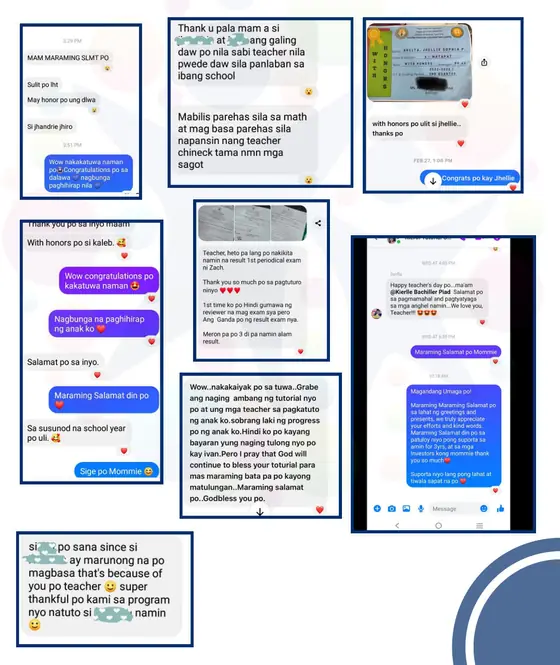
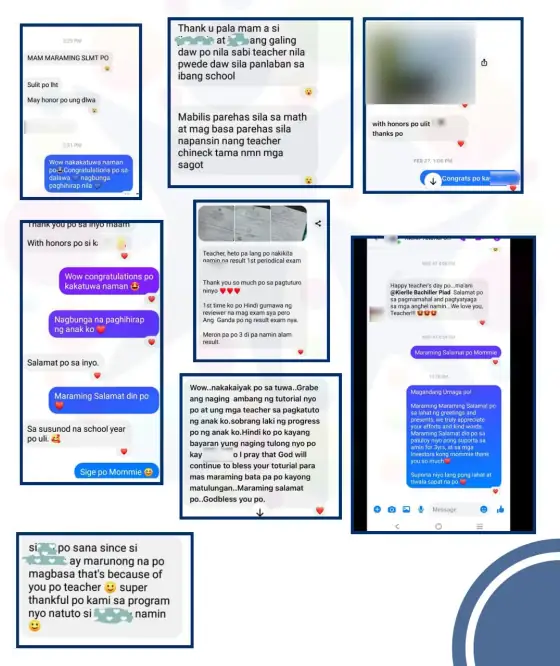
feat: v0.1.6 privacy redactions, compliant partner wording, teacher-1 defaults
- Redact children's names, faces, commenter names and the TIN in the
  testimonial and BIR permit photos (thumbnails regenerated)
- Reword the four Partner options without investment or profit-sharing
  offers; add a disclaimer and a regression test
- New bookable programs and new locations are assigned to teacher-1
  automatically; admin refreshes its teacher list after those saves

diff --git a/index.html b/index.html
@@ -23,8 +23,8 @@
   <link href="assets/kiean-icon.png" rel="icon" type="image/png"/>
   <script type="application/ld+json">{"@context":"https://schema.org","@type":["EducationalOrganization","LocalBusiness"],"@id":"https://kieantutorial.com/#organization","name":"KieAn Tutorial Center","alternateName":"KieAn","slogan":"We care to learn.","url":"https://kieantutorial.com/","logo":"https://kieantutorial.com/assets/kiean-logo.webp","image":"https://kieantutorial.com/assets/og-image.png","description":"Face-to-face and online tutorials, SPED tutorial, Toddler Playgroup, Nursery and Kiddie Care for learners from Nursery to Grade 6 in Cavite and Laguna.","foundingDate":"2020","founder":[{"@type":"Person","name":"Kierlle B. Piad"},{"@type":"Person","name":"Anthony S. Piad"}],"sameAs":["https://www.facebook.com/profile.php?id=61593257580081"],"areaServed":["Cavite","Laguna","Metro Manila","Batangas"],"location":[{"@type":"Place","name":"KieAn Tutorial Center – San Pedro, Laguna","address":{"@type":"PostalAddress","streetAddress":"Block 22 Lot 4, Unit E, 2nd Floor, Chrysanthemum Village, San Pedro, Laguna","addressCountry":"PH"}},{"@type":"Place","name":"KieAn Tutorial Center – Pila, Laguna","address":{"@type":"PostalAddress","streetAddress":"9007 A, Pedro Napil, Mabini Street, Pila, Laguna","addressCountry":"PH"}},{"@type":"Place","name":"KieAn Tutorial Center – Natania Homes","address":{"@type":"PostalAddress","streetAddress":"Phase 1A, Block 9 Lot 5, Natania Homes, Barangay Pasong Kawayan II, General Trias, Cavite","addressCountry":"PH"}},{"@type":"Place","name":"KieAn Tutorial Center – South Square","address":{"@type":"PostalAddress","streetAddress":"0052, 2nd Floor, Barangay Pasong Kawayan II, General Trias, Cavite","addressCountry":"PH"}},{"@type":"Place","name":"KieAn Tutorial Center – San Francisco","address":{"@type":"PostalAddress","streetAddress":"Phase 1, Block 27 Lot 36, Tierra Nevada, Barangay San Francisco, General Trias, Cavite","addressCountry":"PH"}},{"@type":"Place","name":"KieAn Tutorial Center – Maliksi Heroes-Town","address":{"@type":"PostalAddress","streetAddress":"2F, Block 21 Lots 30–32, Unit 2, Phase 1, Pamayanang Maliksi, Barangay Pasong Kawayan II, General Trias, Cavite","addressCountry":"PH"}},{"@type":"Place","name":"KieAn Tutorial Center – Ciudad Nuevo, Naic","address":{"@type":"PostalAddress","streetAddress":"Phase 2, Block 2 Lot 3, Ciudad Nuevo, Barangay Timalan Balsahan, Naic, Cavite","addressCountry":"PH"}}],"legalName":"KIEAN TUTORIAL CENTER","email":"kieanadmin@gmail.com","address":{"@type":"PostalAddress","streetAddress":"Phase 1A, Block 9 Lot 5, Natania Homes, Barangay Pasong Kawayan II","addressLocality":"General Trias","addressRegion":"Cavite","postalCode":"4107","addressCountry":"PH"},"identifier":{"@type":"PropertyValue","propertyID":"DTI Business Name No.","value":"2828786"}}</script>
   <script type="application/ld+json">{"@context":"https://schema.org","@type":"WebSite","@id":"https://kieantutorial.com/#website","name":"KieAn Tutorial Center","url":"https://kieantutorial.com/","inLanguage":"en-PH","publisher":{"@id":"https://kieantutorial.com/#organization"},"copyrightHolder":{"@id":"https://kieantutorial.com/#organization"},"copyrightYear":2026}</script>
-  <link href="style.css?v=20261112-10" rel="stylesheet"/>
-  <link href="booking.css?v=20261112-10" rel="stylesheet"/>
+  <link href="style.css?v=20261112-12" rel="stylesheet"/>
+  <link href="booking.css?v=20261112-12" rel="stylesheet"/>
  </head>
  <body>
   <header class="site-header">
@@ -1126,80 +1126,37 @@
    <section class="section investment" id="investment">
     <div class="container">
      <div class="section-heading investment-heading">
-      <div class="section-kicker">
-       <span>
-        09
-       </span>
-       PARTNER WITH KIEAN
-      </div>
-      <h2>
-       Invest with purpose.
-       <span>
-        Grow with confidence.
-       </span>
-      </h2>
-      <p>
-       Be part of a growing mission that shapes minds and builds futures.
-      </p>
+      <div class="section-kicker"><span>09</span> PARTNER WITH KIEAN</div>
+      <h2>Bring KieAn closer <span>to your community.</span></h2>
+      <p>Franchise and partnership inquiries are welcome.</p>
      </div>
      <div class="investment-grid">
       <article class="investment-card">
-       <div class="investment-number">
-        OPTION 01
-       </div>
-       <h3>
-        Financial Investment
-       </h3>
-       <p>
-        Contact KieAn for the current investment terms.
-       </p>
-       <a class="program-link" href="https://www.facebook.com/profile.php?id=61593257580081" target="_blank" rel="noopener noreferrer">
-        Request details →
-       </a>
+       <div class="investment-number">OPTION 01</div>
+       <h3>Business Partnership</h3>
+       <p>Work with KieAn to open or grow a learning center in your area. Each partnership is discussed one-on-one with the KieAn team.</p>
+       <a class="program-link" href="https://www.facebook.com/profile.php?id=61593257580081" target="_blank" rel="noopener noreferrer">Ask about partnerships →</a>
       </article>
       <article class="investment-card">
-       <div class="investment-number">
-        OPTION 02
-       </div>
-       <h3>
-        Net Profit Sharing
-       </h3>
-       <p>
-        Discuss the current profit-sharing opportunities with the KieAn team.
-       </p>
-       <a class="program-link" href="https://www.facebook.com/profile.php?id=61593257580081" target="_blank" rel="noopener noreferrer">
-        Request details →
-       </a>
+       <div class="investment-number">OPTION 02</div>
+       <h3>Branch Operating Partnership</h3>
+       <p>Run a KieAn branch with our programs, teacher training and support. Roles and responsibilities are agreed directly with KieAn.</p>
+       <a class="program-link" href="https://www.facebook.com/profile.php?id=61593257580081" target="_blank" rel="noopener noreferrer">Ask about branch operations →</a>
       </article>
       <article class="investment-card">
-       <div class="investment-number">
-        OPTION 03
-       </div>
-       <h3>
-        Kiddie Care Co-Ownership
-       </h3>
-       <p>
-        Explore co-ownership opportunities for KieAn Kiddie Care.
-       </p>
-       <a class="program-link" href="https://www.facebook.com/profile.php?id=61593257580081" target="_blank" rel="noopener noreferrer">
-        Request details →
-       </a>
+       <div class="investment-number">OPTION 03</div>
+       <h3>Kiddie Care Partnership</h3>
+       <p>Have a suitable space? Bring KieAn Kiddie Care to your community with our care programs and support.</p>
+       <a class="program-link" href="https://www.facebook.com/profile.php?id=61593257580081" target="_blank" rel="noopener noreferrer">Ask about Kiddie Care →</a>
       </article>
       <article class="investment-card">
-       <div class="investment-number">
-        OPTION 04
-       </div>
-       <h3>
-        Franchising
-       </h3>
-       <p>
-        Turn your passion into a thriving business. Build your own learning center today.
-       </p>
-       <a class="program-link" href="https://www.facebook.com/profile.php?id=61593257580081" target="_blank" rel="noopener noreferrer">
-        Request details →
-       </a>
+       <div class="investment-number">OPTION 04</div>
+       <h3>Franchising</h3>
+       <p>Turn your passion into a thriving business. Open your own KieAn learning center with our programs and branch support.</p>
+       <a class="program-link" href="https://www.facebook.com/profile.php?id=61593257580081" target="_blank" rel="noopener noreferrer">Ask about franchising →</a>
       </article>
      </div>
+     <p class="investment-note">KieAn does not offer investment or profit-sharing products to the public. Any franchise or partnership is agreed privately and in writing.</p>
     </div>
    </section>
    <!-- FINAL CTA -->
@@ -1323,7 +1280,7 @@
     <button class="popup-next" type="button" aria-label="Next photo">›</button>
    </div>
   </dialog>
-  <script defer="True" src="site.js?v=20261112-10">
+  <script defer="True" src="site.js?v=20261112-12">
   </script>
  </body>
 </html>

diff --git a/faq.html b/faq.html
@@ -21,8 +21,8 @@
   <meta property="og:locale" content="en_PH">
   <meta name="twitter:card" content="summary_large_image">
   <link rel="icon" href="/assets/kiean-icon.png" type="image/png">
-  <link rel="stylesheet" href="/style.css?v=20261112-10">
-  <link rel="stylesheet" href="/booking.css?v=20261112-10">
+  <link rel="stylesheet" href="/style.css?v=20261112-12">
+  <link rel="stylesheet" href="/booking.css?v=20261112-12">
   <script type="application/ld+json">{"@context":"https://schema.org","@type":"BreadcrumbList","itemListElement":[{"@type":"ListItem","position":1,"name":"Home","item":"https://kieantutorial.com/"},{"@type":"ListItem","position":2,"name":"Frequently Asked Questions","item":"https://kieantutorial.com/faq"}]}</script>
   <script type="application/ld+json">{"@context":"https://schema.org","@type":"FAQPage","mainEntity":[{"@type":"Question","name":"How do I book sessions?","acceptedAnswer":{"@type":"Answer","text":"Open the booking page, tell us where you live, choose online or face to face, a program, a branch and a teacher, then pick your dates and one time that works for all of them. You will see your booking reference and receive an email with the full schedule."}},{"@type":"Question","name":"How many sessions do I need to book?","acceptedAnswer":{"@type":"Answer","text":"Online tutorials need at least 5 sessions. Most face-to-face tutorials and classes need at least 20 sessions. Nursery is a monthly enrollment of 20 class days, and Kiddie Care can be booked by the day, by the visit or as a monthly package."}},{"@type":"Question","name":"Which areas do you serve?","acceptedAnswer":{"@type":"Answer","text":"Our branches serve families in Cavite, Laguna, Metro Manila, Batangas and other Luzon areas. Choose your city or town on the booking page to see the branches and online teachers that serve your area."}},{"@type":"Question","name":"Can I choose my child’s teacher?","acceptedAnswer":{"@type":"Answer","text":"Yes. The booking page lists the teachers available for your program and area, with a short introduction for each."}},{"@type":"Question","name":"How do I pay?","acceptedAnswer":{"@type":"Answer","text":"Pay by GCash as shown on our <a href="/payment">How to Pay</a> page, then reply to your booking email with the receipt. You can also pay at the branch. The center may confirm fees for some programs."}},{"@type":"Question","name":"How long is each session?","acceptedAnswer":{"@type":"Answer","text":"Face-to-face tutorials and Toddler Playgroup run for 60 minutes and Nursery classes for 90 minutes. Online tutorials are 50-minute lessons with a 10-minute break before the next lesson."}},{"@type":"Question","name":"What grades do you teach?","acceptedAnswer":{"@type":"Answer","text":"Tutorials cover Nursery to Grade 6. Toddler Playgroup is for ages 2 to 3, Nursery 1 for age 3 and Nursery 2 for age 4 by October 31, and Kiddie Care is for children aged 1 and above."}},{"@type":"Question","name":"Do you offer SPED tutorial?","acceptedAnswer":{"@type":"Answer","text":"Yes. Activities depend on the developmental pediatrician’s assessment, so please present the latest diagnosis directly to the center before lessons begin."}},{"@type":"Question","name":"How do online lessons work?","acceptedAnswer":{"@type":"Answer","text":"Online lessons use Google Meet. After booking you receive a Google Calendar invitation with the Meet link. Please make sure your child has a working device, a stable internet connection and an adult nearby."}},{"@type":"Question","name":"What are the Kiddie Care hours?","acceptedAnswer":{"@type":"Answer","text":"Daytime care at our South Square branch runs from 7:00 AM to 7:00 PM. KieAn Kiddie Care offers day stays, night stays and walk-in care, for regular or special needs children, by the day or as a monthly package. See the rates on our homepage."}},{"@type":"Question","name":"What do I need to know before my child’s first day?","acceptedAnswer":{"@type":"Answer","text":"Meals and snacks are not included, an authorized pick-up list is required, and late pick-up is charged after the agreed schedule. Please complete our consent form."}},{"@type":"Question","name":"Can I reschedule or cancel a session?","acceptedAnswer":{"@type":"Answer","text":"Yes, with at least 24 hours’ notice. See our Refund and Cancellation Policy for details."}},{"@type":"Question","name":"How do you protect my family’s information?","acceptedAnswer":{"@type":"Answer","text":"We use your details only to schedule and run lessons and never sell them. Read our Privacy Policy."}},{"@type":"Question","name":"How can I contact KieAn?","acceptedAnswer":{"@type":"Answer","text":"Message us on Facebook. We reply to booking, program and partnership questions there."}}]}</script>
 </head>
@@ -64,6 +64,6 @@
     <p class="biz-line">KIEAN TUTORIAL CENTER (Kierlle Bachiller Piad, sole proprietor) · DTI Business Name No. 2828786 · Phase 1A, Block 9 Lot 5, Natania Homes, Pasong Kawayan II, General Trias, Cavite 4107 · <a href="mailto:kieanadmin@gmail.com">kieanadmin@gmail.com</a></p>
     <p>© 2026 KieAn Tutorial Center. All rights reserved. Photos, logos and other images on this website are © KieAn Tutorial Center and may not be reused without written permission.</p>
   </div></footer>
-  <script src="/legal.js?v=20261112-10" defer></script>
+  <script src="/legal.js?v=20261112-12" defer></script>
 </body>
 </html>

diff --git a/booking.html b/booking.html
@@ -19,7 +19,7 @@
   <meta property="og:image:height" content="630">
   <meta property="og:locale" content="en_PH">
   <meta name="twitter:card" content="summary_large_image">
-  <link rel="icon" href="assets/kiean-icon.png"><link rel="stylesheet" href="style.css?v=20261112-10"><link rel="stylesheet" href="booking.css?v=20261112-10">
+  <link rel="icon" href="assets/kiean-icon.png"><link rel="stylesheet" href="style.css?v=20261112-12"><link rel="stylesheet" href="booking.css?v=20261112-12">
 </head>
 <body class="booking-page">
   <header class="booking-header"><div class="container"><a href="/" aria-label="KieAn home"><img src="assets/kiean-logo.webp" width="300" height="143" alt="KieAn Tutorial Center"></a><span class="timezone-label">Philippine Time · UTC+8</span></div></header>
@@ -110,5 +110,5 @@
   <footer class="booking-footer">© 2026 KieAn Tutorial Center <span>We care to learn.</span><nav class="footer-legal" aria-label="Policies"><a href="/contact">Contact</a><a href="/faq">FAQ</a><a href="/payment">How to Pay</a><a href="/privacy-policy">Privacy Policy</a><a href="/terms">Terms</a><a href="/refund-policy">Refund Policy</a></nav><p class="biz-line">KIEAN TUTORIAL CENTER (Kierlle Bachiller Piad, sole proprietor) · DTI Business Name No. 2828786 · Phase 1A, Block 9 Lot 5, Natania Homes, Pasong Kawayan II, General Trias, Cavite 4107 · <a href="mailto:kieanadmin@gmail.com">kieanadmin@gmail.com</a></p></footer>
   <dialog id="submitting" class="popup submitting-popup" aria-labelledby="submitting-title"><div class="popup-body submitting-body"><span class="spinner" aria-hidden="true"></span><h2 id="submitting-title">Booking your sessions…</h2><p>We are checking your dates, adding them to the teacher’s Google Calendar and sending your emails. This can take up to a minute. Please keep this page open.</p></div></dialog>
   <a aria-label="Message KieAn on Facebook for more information" class="messenger-float" href="https://www.facebook.com/profile.php?id=61593257580081" rel="noopener noreferrer" target="_blank"><img alt="" src="assets/fbmes.webp" width="96" height="96" loading="lazy" decoding="async"><span>Send us a message</span></a>
-  <script type="module" src="booking.js?v=20261112-10"></script>
+  <script type="module" src="booking.js?v=20261112-12"></script>
 </body></html>

diff --git a/admin.js b/admin.js
@@ -273,7 +273,7 @@ $('#location-photo-input').addEventListener('change',async e=>{
   }
 });
 async function saveLocations(next,message,remove){
-  try{const data=await request('/api/admin/branches',{method:'POST',headers:{'Content-Type':'application/json'},body:JSON.stringify({branches:next,remove})});setLocations(data.branches);renderLocations();if(editing===null)render();editor.close();setMessage(message,'success');}
+  try{const data=await request('/api/admin/branches',{method:'POST',headers:{'Content-Type':'application/json'},body:JSON.stringify({branches:next,remove})});setLocations(data.branches);if(data.teachers&&editing===null)teachers=data.teachers;renderLocations();if(editing===null)render();editor.close();setMessage(message,'success');}
   catch(error){$('#photo-status').textContent=error.message;}
 }
 locForm.addEventListener('submit',event=>{
@@ -435,7 +435,7 @@ function openProgram(p){
 async function savePrograms(next,text,remove){
   try{
     const data=await request('/api/admin/programs',{method:'POST',headers:{'Content-Type':'application/json'},body:JSON.stringify({programs:next,remove})});
-    setPrograms(data.programs);renderPrograms();renderLocations();if(editing===null)render();progEditor.close();setMessage(text,'success');
+    setPrograms(data.programs);if(data.teachers&&editing===null)teachers=data.teachers;renderPrograms();renderLocations();if(editing===null)render();progEditor.close();setMessage(text,'success');
   }catch(error){if(progEditor.open)$('#program-status').textContent=error.message;else setMessage(error.message,'error');}
 }
 $('#add-program').addEventListener('click',()=>openProgram(null));

diff --git a/consent-form.html b/consent-form.html
@@ -21,8 +21,8 @@
   <meta property="og:locale" content="en_PH">
   <meta name="twitter:card" content="summary_large_image">
   <link rel="icon" href="/assets/kiean-icon.png" type="image/png">
-  <link rel="stylesheet" href="/style.css?v=20261112-10">
-  <link rel="stylesheet" href="/booking.css?v=20261112-10">
+  <link rel="stylesheet" href="/style.css?v=20261112-12">
+  <link rel="stylesheet" href="/booking.css?v=20261112-12">
   <script type="application/ld+json">{"@context":"https://schema.org","@type":"BreadcrumbList","itemListElement":[{"@type":"ListItem","position":1,"name":"Home","item":"https://kieantutorial.com/"},{"@type":"ListItem","position":2,"name":"Parent and Guardian Consent Form","item":"https://kieantutorial.com/consent-form"}]}</script>
 </head>
 <body class="booking-page legal-page">
@@ -65,6 +65,6 @@
     <p class="biz-line">KIEAN TUTORIAL CENTER (Kierlle Bachiller Piad, sole proprietor) · DTI Business Name No. 2828786 · Phase 1A, Block 9 Lot 5, Natania Homes, Pasong Kawayan II, General Trias, Cavite 4107 · <a href="mailto:kieanadmin@gmail.com">kieanadmin@gmail.com</a></p>
     <p>© 2026 KieAn Tutorial Center. All rights reserved. Photos, logos and other images on this website are © KieAn Tutorial Center and may not be reused without written permission.</p>
   </div></footer>
-  <script src="/legal.js?v=20261112-10" defer></script>
+  <script src="/legal.js?v=20261112-12" defer></script>
 </body>
 </html>

diff --git a/refund-policy.html b/refund-policy.html
@@ -21,8 +21,8 @@
   <meta property="og:locale" content="en_PH">
   <meta name="twitter:card" content="summary_large_image">
   <link rel="icon" href="/assets/kiean-icon.png" type="image/png">
-  <link rel="stylesheet" href="/style.css?v=20261112-10">
-  <link rel="stylesheet" href="/booking.css?v=20261112-10">
+  <link rel="stylesheet" href="/style.css?v=20261112-12">
+  <link rel="stylesheet" href="/booking.css?v=20261112-12">
   <script type="application/ld+json">{"@context":"https://schema.org","@type":"BreadcrumbList","itemListElement":[{"@type":"ListItem","position":1,"name":"Home","item":"https://kieantutorial.com/"},{"@type":"ListItem","position":2,"name":"Refund and Cancellation Policy","item":"https://kieantutorial.com/refund-policy"}]}</script>
 </head>
 <body class="booking-page legal-page">
@@ -63,6 +63,6 @@
     <p class="biz-line">KIEAN TUTORIAL CENTER (Kierlle Bachiller Piad, sole proprietor) · DTI Business Name No. 2828786 · Phase 1A, Block 9 Lot 5, Natania Homes, Pasong Kawayan II, General Trias, Cavite 4107 · <a href="mailto:kieanadmin@gmail.com">kieanadmin@gmail.com</a></p>
     <p>© 2026 KieAn Tutorial Center. All rights reserved. Photos, logos and other images on this website are © KieAn Tutorial Center and may not be reused without written permission.</p>
   </div></footer>
-  <script src="/legal.js?v=20261112-10" defer></script>
+  <script src="/legal.js?v=20261112-12" defer></script>
 </body>
 </html>

diff --git a/contact.html b/contact.html
@@ -21,8 +21,8 @@
   <meta property="og:locale" content="en_PH">
   <meta name="twitter:card" content="summary_large_image">
   <link rel="icon" href="/assets/kiean-icon.png" type="image/png">
-  <link rel="stylesheet" href="/style.css?v=20261112-10">
-  <link rel="stylesheet" href="/booking.css?v=20261112-10">
+  <link rel="stylesheet" href="/style.css?v=20261112-12">
+  <link rel="stylesheet" href="/booking.css?v=20261112-12">
   <script type="application/ld+json">{"@context":"https://schema.org","@type":"BreadcrumbList","itemListElement":[{"@type":"ListItem","position":1,"name":"Home","item":"https://kieantutorial.com/"},{"@type":"ListItem","position":2,"name":"Contact and Business Information","item":"https://kieantutorial.com/contact"}]}</script>
 </head>
 <body class="booking-page legal-page">
@@ -56,6 +56,6 @@
     <p class="biz-line">KIEAN TUTORIAL CENTER (Kierlle Bachiller Piad, sole proprietor) · DTI Business Name No. 2828786 · Phase 1A, Block 9 Lot 5, Natania Homes, Pasong Kawayan II, General Trias, Cavite 4107 · <a href="mailto:kieanadmin@gmail.com">kieanadmin@gmail.com</a></p>
     <p>© 2026 KieAn Tutorial Center. All rights reserved. Photos, logos and other images on this website are © KieAn Tutorial Center and may not be reused without written permission.</p>
   </div></footer>
-  <script src="/legal.js?v=20261112-10" defer></script>
+  <script src="/legal.js?v=20261112-12" defer></script>
 </body>
 </html>

diff --git a/payment.html b/payment.html
@@ -21,8 +21,8 @@
   <meta property="og:locale" content="en_PH">
   <meta name="twitter:card" content="summary_large_image">
   <link rel="icon" href="/assets/kiean-icon.png" type="image/png">
-  <link rel="stylesheet" href="/style.css?v=20261112-10">
-  <link rel="stylesheet" href="/booking.css?v=20261112-10">
+  <link rel="stylesheet" href="/style.css?v=20261112-12">
+  <link rel="stylesheet" href="/booking.css?v=20261112-12">
   <script type="application/ld+json">{"@context":"https://schema.org","@type":"BreadcrumbList","itemListElement":[{"@type":"ListItem","position":1,"name":"Home","item":"https://kieantutorial.com/"},{"@type":"ListItem","position":2,"name":"How to Pay with GCash","item":"https://kieantutorial.com/payment"}]}</script>
 </head>
 <body class="booking-page legal-page">
@@ -60,6 +60,6 @@
     <p class="biz-line">KIEAN TUTORIAL CENTER (Kierlle Bachiller Piad, sole proprietor) · DTI Business Name No. 2828786 · Phase 1A, Block 9 Lot 5, Natania Homes, Pasong Kawayan II, General Trias, Cavite 4107 · <a href="mailto:kieanadmin@gmail.com">kieanadmin@gmail.com</a></p>
     <p>© 2026 KieAn Tutorial Center. All rights reserved. Photos, logos and other images on this website are © KieAn Tutorial Center and may not be reused without written permission.</p>
   </div></footer>
-  <script src="/legal.js?v=20261112-10" defer></script>
+  <script src="/legal.js?v=20261112-12" defer></script>
 </body>
 </html>

diff --git a/privacy-policy.html b/privacy-policy.html
@@ -21,8 +21,8 @@
   <meta property="og:locale" content="en_PH">
   <meta name="twitter:card" content="summary_large_image">
   <link rel="icon" href="/assets/kiean-icon.png" type="image/png">
-  <link rel="stylesheet" href="/style.css?v=20261112-10">
-  <link rel="stylesheet" href="/booking.css?v=20261112-10">
+  <link rel="stylesheet" href="/style.css?v=20261112-12">
+  <link rel="stylesheet" href="/booking.css?v=20261112-12">
   <script type="application/ld+json">{"@context":"https://schema.org","@type":"BreadcrumbList","itemListElement":[{"@type":"ListItem","position":1,"name":"Home","item":"https://kieantutorial.com/"},{"@type":"ListItem","position":2,"name":"Privacy Policy","item":"https://kieantutorial.com/privacy-policy"}]}</script>
 </head>
 <body class="booking-page legal-page">
@@ -72,6 +72,6 @@
     <p class="biz-line">KIEAN TUTORIAL CENTER (Kierlle Bachiller Piad, sole proprietor) · DTI Business Name No. 2828786 · Phase 1A, Block 9 Lot 5, Natania Homes, Pasong Kawayan II, General Trias, Cavite 4107 · <a href="mailto:kieanadmin@gmail.com">kieanadmin@gmail.com</a></p>
     <p>© 2026 KieAn Tutorial Center. All rights reserved. Photos, logos and other images on this website are © KieAn Tutorial Center and may not be reused without written permission.</p>
   </div></footer>
-  <script src="/legal.js?v=20261112-10" defer></script>
+  <script src="/legal.js?v=20261112-12" defer></script>
 </body>
 </html>

diff --git a/cookie-policy.html b/cookie-policy.html
@@ -21,8 +21,8 @@
   <meta property="og:locale" content="en_PH">
   <meta name="twitter:card" content="summary_large_image">
   <link rel="icon" href="/assets/kiean-icon.png" type="image/png">
-  <link rel="stylesheet" href="/style.css?v=20261112-10">
-  <link rel="stylesheet" href="/booking.css?v=20261112-10">
+  <link rel="stylesheet" href="/style.css?v=20261112-12">
+  <link rel="stylesheet" href="/booking.css?v=20261112-12">
   <script type="application/ld+json">{"@context":"https://schema.org","@type":"BreadcrumbList","itemListElement":[{"@type":"ListItem","position":1,"name":"Home","item":"https://kieantutorial.com/"},{"@type":"ListItem","position":2,"name":"Cookie Policy","item":"https://kieantutorial.com/cookie-policy"}]}</script>
 </head>
 <body class="booking-page legal-page">
@@ -60,6 +60,6 @@
     <p class="biz-line">KIEAN TUTORIAL CENTER (Kierlle Bachiller Piad, sole proprietor) · DTI Business Name No. 2828786 · Phase 1A, Block 9 Lot 5, Natania Homes, Pasong Kawayan II, General Trias, Cavite 4107 · <a href="mailto:kieanadmin@gmail.com">kieanadmin@gmail.com</a></p>
     <p>© 2026 KieAn Tutorial Center. All rights reserved. Photos, logos and other images on this website are © KieAn Tutorial Center and may not be reused without written permission.</p>
   </div></footer>
-  <script src="/legal.js?v=20261112-10" defer></script>
+  <script src="/legal.js?v=20261112-12" defer></script>
 </body>
 </html>

diff --git a/terms.html b/terms.html
@@ -21,8 +21,8 @@
   <meta property="og:locale" content="en_PH">
   <meta name="twitter:card" content="summary_large_image">
   <link rel="icon" href="/assets/kiean-icon.png" type="image/png">
-  <link rel="stylesheet" href="/style.css?v=20261112-10">
-  <link rel="stylesheet" href="/booking.css?v=20261112-10">
+  <link rel="stylesheet" href="/style.css?v=20261112-12">
+  <link rel="stylesheet" href="/booking.css?v=20261112-12">
   <script type="application/ld+json">{"@context":"https://schema.org","@type":"BreadcrumbList","itemListElement":[{"@type":"ListItem","position":1,"name":"Home","item":"https://kieantutorial.com/"},{"@type":"ListItem","position":2,"name":"Terms and Conditions","item":"https://kieantutorial.com/terms"}]}</script>
 </head>
 <body class="booking-page legal-page">
@@ -78,6 +78,6 @@
     <p class="biz-line">KIEAN TUTORIAL CENTER (Kierlle Bachiller Piad, sole proprietor) · DTI Business Name No. 2828786 · Phase 1A, Block 9 Lot 5, Natania Homes, Pasong Kawayan II, General Trias, Cavite 4107 · <a href="mailto:kieanadmin@gmail.com">kieanadmin@gmail.com</a></p>
     <p>© 2026 KieAn Tutorial Center. All rights reserved. Photos, logos and other images on this website are © KieAn Tutorial Center and may not be reused without written permission.</p>
   </div></footer>
-  <script src="/legal.js?v=20261112-10" defer></script>
+  <script src="/legal.js?v=20261112-12" defer></script>
 </body>
 </html>

diff --git a/404.html b/404.html
@@ -19,8 +19,8 @@
   <meta property="og:locale" content="en_PH">
   <meta name="twitter:card" content="summary_large_image">
   <link rel="icon" href="/assets/kiean-icon.png" type="image/png">
-  <link rel="stylesheet" href="/style.css?v=20261112-10">
-  <link rel="stylesheet" href="/booking.css?v=20261112-10">
+  <link rel="stylesheet" href="/style.css?v=20261112-12">
+  <link rel="stylesheet" href="/booking.css?v=20261112-12">
 </head>
 <body class="booking-page legal-page">
   <a class="skip-link" href="#content">Skip to content</a>
@@ -37,6 +37,6 @@
     <p class="biz-line">KIEAN TUTORIAL CENTER (Kierlle Bachiller Piad, sole proprietor) · DTI Business Name No. 2828786 · Phase 1A, Block 9 Lot 5, Natania Homes, Pasong Kawayan II, General Trias, Cavite 4107 · <a href="mailto:kieanadmin@gmail.com">kieanadmin@gmail.com</a></p>
     <p>© 2026 KieAn Tutorial Center. All rights reserved. Photos, logos and other images on this website are © KieAn Tutorial Center and may not be reused without written permission.</p>
   </div></footer>
-  <script src="/legal.js?v=20261112-10" defer></script>
+  <script src="/legal.js?v=20261112-12" defer></script>
 </body>
 </html>
